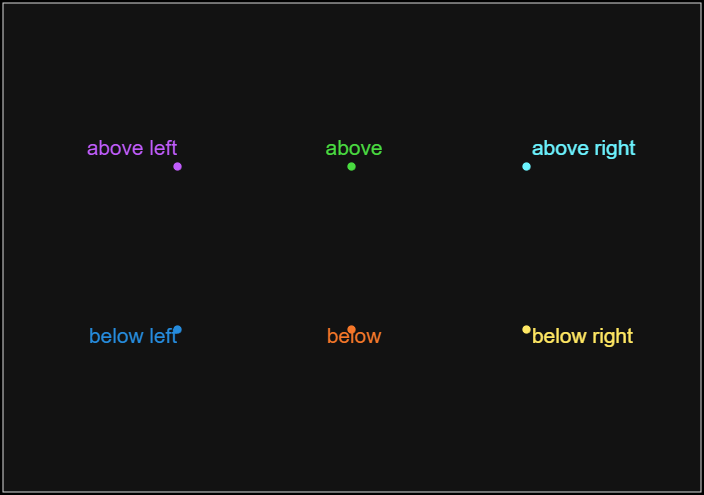
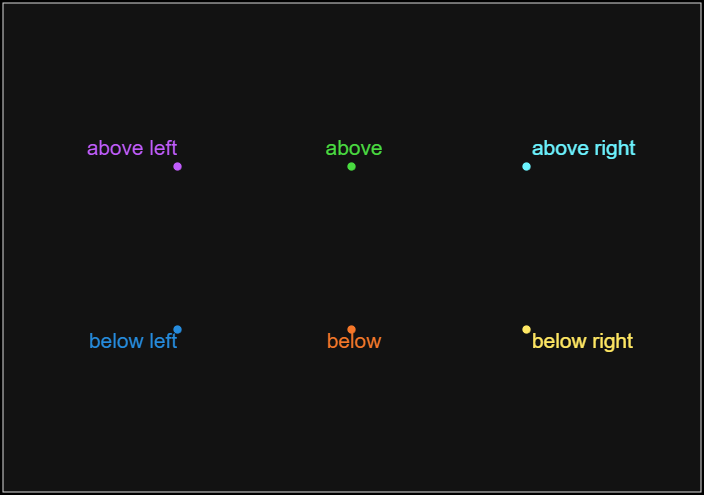
Adding support for scatter, updating readme

Changed region(s): [[0.75, 0.6667, 0.9062, 0.7273], [0.125, 0.6667, 0.25, 0.7273], [0.4688, 0.6667, 0.5625, 0.7273]]

diff --git a/label_line.m b/label_line.m
@@ -8,7 +8,7 @@ function hlabel = label_line(h, pos, opts)
 %
 % Not all edge cases are handled well.  Some specific problem areas
 %  - relative position is based on an integrated length, some of this
-%  length may be offscreen.  Particularly troubling for a clipped plot
+%  length may be off-screen.  Particularly troubling for a clipped plot
 %  approahcing infinity.
 %
 % INPUTS:
@@ -34,12 +34,24 @@ function hlabel = label_line(h, pos, opts)
 %
 % OPTIONS (used for development, not recommended)
 %  baseOffset- Baseline offset in direction of location
+%  baseOffsetBelow - Additional offset in the below direction
+%                    When above, an additional effective offset is visible
+%                    because the text baseline is not at the bottom of the
+%                    box
 %
-% TODO: Implement text arrow option
+% Notes
+%  - Does not work with xline or yline, but these contain their own
+%    label options
+%
+% TODO: Add pin option
 % TODO: Consider x-position option to set label at specific x coord
+% TODO: Support log scales
 
 arguments
-    h (1, 1) matlab.graphics.chart.primitive.Line
+    % h (1, 1) matlab.graphics.chart.primitive.Line
+    h (1, 1) {mustBeA(h, [ ...
+        "matlab.graphics.chart.primitive.Line", ...
+        "matlab.graphics.chart.primitive.Scatter"])}
     pos (1, :) double {mustBeInRange(pos, 0, 1, "inclusive")} = 0.5
     opts.String (1, 1) string = h.DisplayName
     opts.Sloped (1, 1) logical = false;
@@ -49,10 +61,18 @@ arguments
         "center"])} = "above";
     opts.xoffset (1, 1) double = 0;
     opts.yoffset (1, 1) double = 0;
-    opts.Color = h.Color;
+    opts.Color = [];
     opts.baseOffset (1, 1) double = 2; 
+    opts.baseOffsetBelow (1, 1) double = 2;
     opts.BackgroundColor = "none";
     opts.Rotation (1, 1) double = 0;
+end
+
+% default color based on type
+if isempty(opts.Color) && isa(h, "matlab.graphics.chart.primitive.Line")
+    opts.Color = h.Color;
+elseif isempty(opts.Color) && isa(h, "matlab.graphics.chart.primitive.Scatter")
+    opts.Color = h.Parent.XColor;
 end
 
 % convert to screen coordinates
@@ -225,7 +245,7 @@ xoffset = 0;
 yoffset = opts.baseOffset;
 if contains(opts.Location, "below")
     vert = "top";
-    yoffset = -opts.baseOffset;
+    yoffset = -opts.baseOffset-opts.baseOffsetBelow;
 elseif contains(opts.Location, "center")
     vert = "middle";
     yoffset = 0;

diff --git a/label_line_ex0.m b/label_line_ex0.m
@@ -150,3 +150,17 @@ h = plot(x, cos(x), "-", DisplayName="cos(x)");
 label_line(h, 0.25, Sloped=true);
 exportgraphics(gcf, "ex07.png");
 
+
+%% ex0.8 scatter
+x = linspace(0, 2*pi, 51);
+
+figure(Name="ex0.7 sin cos", Units="inches", Position=[1,1,6,4]);
+ha = axes;hold on;grid off;box on;
+ha.XLim = [0, 2*pi];
+ha.YLim = [-1, 1]*1.1;
+h = scatter(x, sin(x), 30, sin(x), "filled", DisplayName="sin(x)");
+label_line(h, 0.5, Sloped=true);
+
+
+
+

diff --git a/README.md b/README.md
@@ -52,3 +52,22 @@ h = plot(2, 1, ".", DisplayName="above right");
 label_line(h, location=h.DisplayName);
 ```
 ![LocationOpts](ex01.png)
+
+## Known Limitations
+- Does not handle log scales.
+- Can generate invalid positions if the line extends beyond the plot box.
+  Only signfiicant when line extends beyond the box or approaches infinity.
+
+## References
+Initial inspiration came from practice of using a node
+in the trailing plot commands within [pgfplot](https://tikz.dev/pgfplots/reference-annotations#sec-4.17.3)
+
+The [NoLegend](https://www.mathworks.com/matlabcentral/fileexchange/51163-nolegend-labeling-lines-directly-instead-of-using-legends)
+package performs a similar task.  It does handle log scales, but it
+has limited location options and does not rotate labels.
+
+The [label](https://www.mathworks.com/matlabcentral/fileexchange/47421-label)
+package handles label location, but uses different positioning controls.
+
+
+
